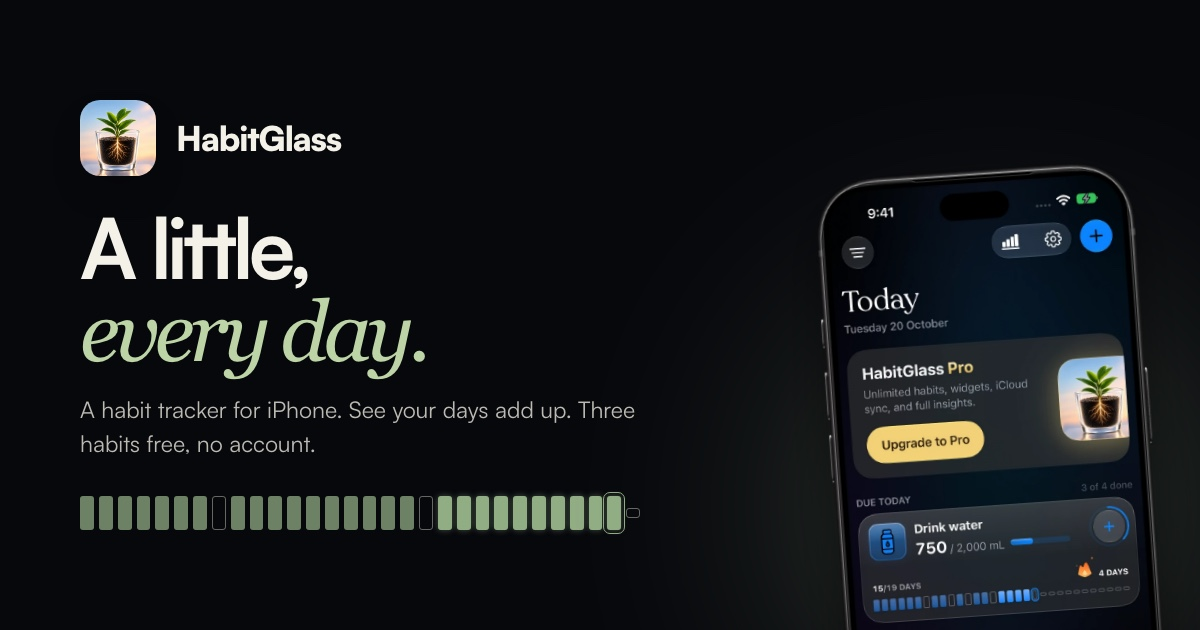
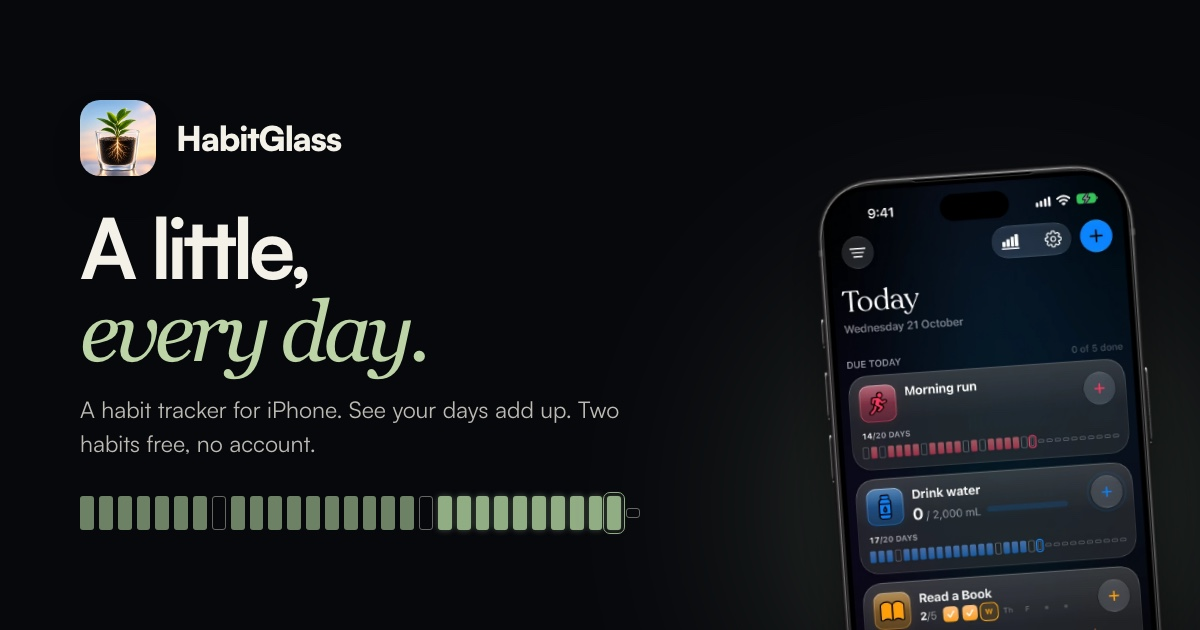
sync site content from source repo

Changed region(s): [[0.7092, 0.4825, 0.9558, 1.0], [0.8633, 0.3016, 0.8942, 0.3317], [0.4933, 0.6333, 0.5242, 0.6635]]

diff --git a/index.html b/index.html
@@ -6,12 +6,12 @@
 <meta name="theme-color" content="#07080c" media="(prefers-color-scheme: dark)">
 <meta name="theme-color" content="#f8f7f2" media="(prefers-color-scheme: light)">
 <title>HabitGlass — a little, every day</title>
-<meta name="description" content="A habit tracker for iPhone. Track water, reading, time and the things you want to do less. See your days add up. Three habits free, no account.">
+<meta name="description" content="A habit tracker for iPhone. Track water, reading, time and the things you want to do less. See your days add up. Two habits free, no account.">
 <link rel="canonical" href="https://habitglass.info/">
 <meta property="og:type" content="website">
 <meta property="og:site_name" content="HabitGlass">
 <meta property="og:title" content="HabitGlass — a little, every day">
-<meta property="og:description" content="A habit tracker for iPhone. See your days add up. Three habits free, no account.">
+<meta property="og:description" content="A habit tracker for iPhone. See your days add up. Two habits free, no account.">
 <meta property="og:url" content="https://habitglass.info/">
 <meta property="og:image" content="https://habitglass.info/assets/og.jpg">
 <meta property="og:image:width" content="1200">
@@ -89,7 +89,7 @@
         <a class="btn btn-primary has-qr" href="https://apps.apple.com/us/app/habit-glass-habit-tracker/id6807643942"><svg width="18" height="18" aria-hidden="true"><use href="#i-apple"/></svg>Get HabitGlass<span class="store-qr" aria-hidden="true"><svg width="165" height="165"><use href="#i-qr"/></svg>Scan with your iPhone</span></a>
         <a class="quiet-link" href="#tour">Take a closer look <span aria-hidden="true">↗</span></a>
       </div>
-      <p class="opening-small">Requires iOS 26 or later.<br>Three habits free. Yours to keep.</p>
+      <p class="opening-small">Requires iOS 26 or later.<br>Two habits free. Yours to keep.</p>
     </div>
     <figure class="opening-art">
       <div class="ribbon ribbon-one" aria-hidden="true"><div class="month" data-opening-days data-editorial-days="111101111111011111111111110000" data-today="27" style="--c:var(--day-blue)"></div></div>
@@ -141,7 +141,7 @@
   </section>
 
   <section id="features" class="editorial-section shell">
-    <div class="section-head editorial-heading reveal"><h2>Pro opens<br><em>the rest.</em></h2><p>Three habits, every schedule and schedule-aware streaks are free for good. Pro takes the cap off and adds these.</p></div>
+    <div class="section-head editorial-heading reveal"><h2>Pro opens<br><em>the rest.</em></h2><p>Two habits, every schedule and schedule-aware streaks are free for good. Pro takes the cap off and adds these.</p></div>
     <article class="health-lead" style="--tint:var(--day-pink)" data-health-demo>
       <div class="health-demo reveal" aria-hidden="true">
         <p class="health-label">Steps today</p>
@@ -161,7 +161,7 @@
       <li class="reveal" style="--tint:var(--day-lilac);--delay:60ms"><div class="mini" data-mini="insights" aria-hidden="true"></div><h3>Insights</h3><p>A check-in calendar, consistency heatmap and streak leaderboard.</p></li>
       <li class="reveal" style="--tint:var(--day-amber);--delay:120ms"><div class="mini" data-mini="reminders" aria-hidden="true"></div><h3>Reminders that adapt</h3><p>Up to six a day, with repeats and follow-ups. They stop when you're done.</p></li>
       <li class="reveal" style="--tint:var(--day-green);--delay:180ms"><div class="mini" data-mini="sync" aria-hidden="true"></div><h3>iCloud sync</h3><p>Sync through your private iCloud database. Off until you switch it on.</p></li>
-      <li class="reveal" style="--tint:var(--day-lilac)"><div class="mini" data-mini="unlimited" aria-hidden="true"></div><h3>Unlimited habits</h3><p>More than three habits, with categories of your own.</p></li>
+      <li class="reveal" style="--tint:var(--day-lilac)"><div class="mini" data-mini="unlimited" aria-hidden="true"></div><h3>Unlimited habits</h3><p>More than two habits, with categories of your own.</p></li>
       <li class="reveal" style="--tint:var(--day-green);--delay:60ms"><div class="mini" data-mini="goals" aria-hidden="true"></div><h3>Daily goals</h3><p>Up to 20 check-ins a day. Watch the card fill as you tap.</p></li>
       <li class="reveal" style="--tint:var(--day-blue);--delay:120ms"><div class="mini" data-mini="notes" aria-hidden="true"></div><h3>Per-day notes</h3><p>Note what went well, or what got in the way.</p></li>
       <li class="reveal" style="--tint:var(--day-amber);--delay:180ms"><div class="mini" data-mini="pause" aria-hidden="true"></div><h3>Pause habits</h3><p>Take a break. Your streak waits for you.</p></li>
@@ -169,15 +169,15 @@
   </section>
 
   <section id="pricing" class="editorial-section shell">
-    <div class="section-head editorial-heading reveal"><h2>Start small.<br><em>Stay as long as you like.</em></h2><p>Three habits are free. Pro is a subscription, or a single purchase.</p></div>
+    <div class="section-head editorial-heading reveal"><h2>Start small.<br><em>Stay as long as you like.</em></h2><p>Two habits are free. Pro is a subscription, or a single purchase.</p></div>
     <div class="currency-row reveal"><div class="currency" role="group" aria-label="Currency"><button type="button" data-currency="aud" aria-pressed="true">AUD</button><button type="button" data-currency="usd" aria-pressed="false">USD</button></div></div>
     <div class="plans">
       <div class="plan reveal">
         <h3 class="plan-name">Free</h3>
         <p class="plan-price"><span data-price data-aud="A$0" data-usd="US$0">A$0</span></p>
-        <p class="plan-sub">For your first three habits.</p>
+        <p class="plan-sub">For your first two habits.</p>
         <ul class="dots">
-          <li>Up to three active habits</li>
+          <li>Up to two active habits</li>
           <li>Every schedule type</li>
           <li>Schedule-aware streaks</li>
           <li>Month grid and history</li>

diff --git a/terms.html b/terms.html
@@ -150,7 +150,7 @@
       <h2 id="tiers">Free and Pro tiers</h2>
       <p>The free tier includes:</p>
       <ul>
-        <li>Up to 3 active habits</li>
+        <li>Up to 2 active habits</li>
         <li>6 habit colors</li>
         <li>Daily reminders</li>
         <li>Full tracking and streak history</li>
